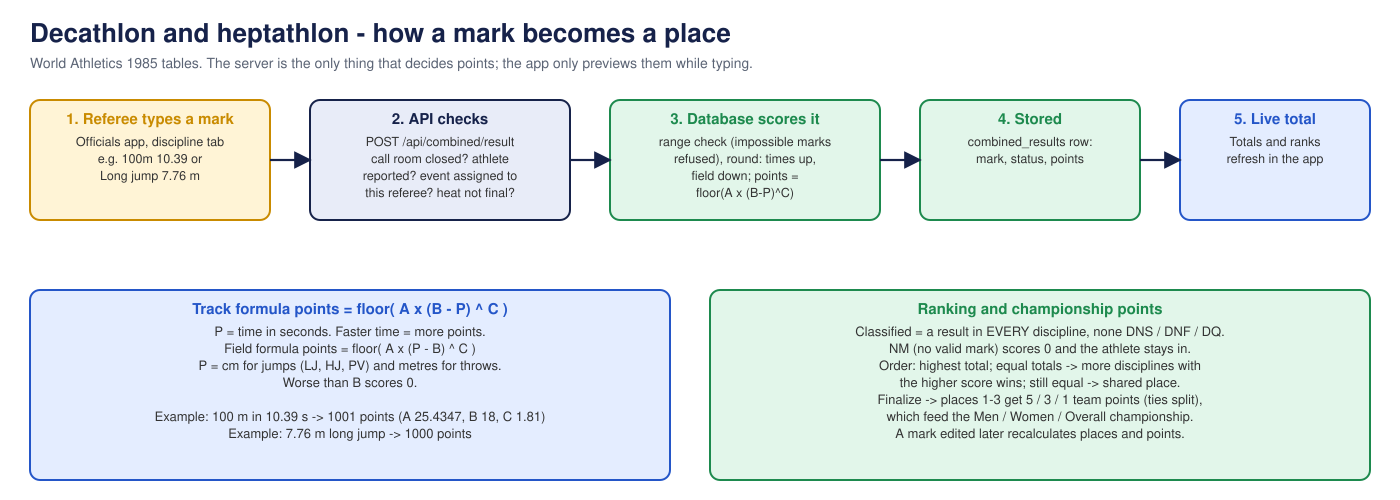
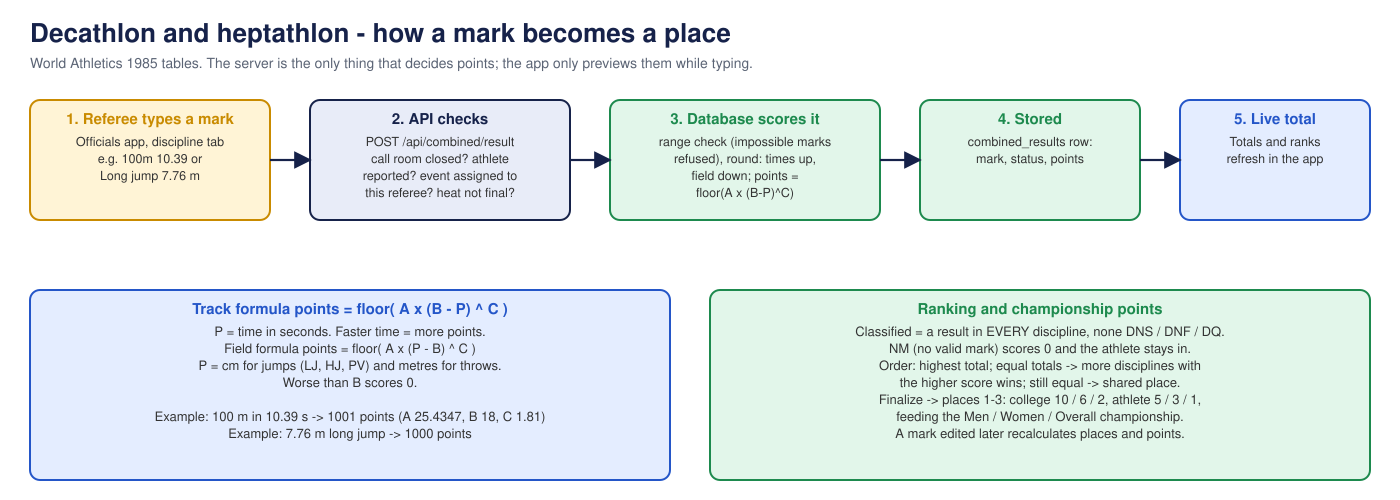
docs: college points are 10/6/2 (athlete 5/3/1), results corrections page; seed keeps combined_disciplines
The staging seed truncated combined_disciplines (decathlon/heptathlon scoring table); it is reference
data now kept like events and meet_settings.

Changed region(s): [[0.6143, 0.78, 0.86, 0.84]]

diff --git a/scripts/staging/seed_demo.py b/scripts/staging/seed_demo.py
@@ -240,7 +240,7 @@ receipt_url = f'{URL}/storage/v1/object/public/payment-proofs/demo/receipt.png'
 # ------------------------------------------------------------------------------------------------
 # Wipe and load
 # ------------------------------------------------------------------------------------------------
-keep = {'events', 'meet_settings'}
+keep = {'events', 'meet_settings', 'combined_disciplines'}  # reference data, not demo data
 tables = [t for t in psql("select tablename from pg_tables where schemaname='public'").split() if t not in keep]
 sql = ['BEGIN;', f'TRUNCATE {", ".join(tables)} RESTART IDENTITY CASCADE;']
 sql.append("""UPDATE meet_settings SET meet_name = 'Dr. ACS-AURA 2026 — 28th VTU State Level Inter-Collegiate Athletic Meet (DEMO)',

diff --git a/HOW-IT-WORKS.md b/HOW-IT-WORKS.md
@@ -184,6 +184,7 @@ Wi-Fi at a stadium can be poor. The app **keeps working**:
 - Type each athlete's mark: **times** like 10.42 or 1:52.34, **distances and heights in metres** like 7.42.
 - The **points** appear straight away (World Athletics scoring), and the standings table below shows the running total and rank for every athlete.
 - Statuses: **FIN** (finished), **NM** (no valid mark, scores 0 and the athlete stays in), **DNF/DQ/DNS** (the athlete is not ranked).
+- **Print / Save PDF** gives the paper sheet: one table per day with each mark and its points, the grand total and the position.
 - Press **Finish event & award points** when every mark is in.
 
 ### Rules referees should know
@@ -210,7 +211,8 @@ Payments page**. The **registration desk** account marks arrivals.
 | **Bibs** | Generate contiguous bib numbers once registration closes (never change afterwards) |
 | **ID cards** | Print athlete accreditation cards (admin-only; colleges do not see them) |
 | **Heats / Schedule** | Draw heats for each event, see the schedule, link each heat to its slot |
-| **Score sheets** | Print blank referee score sheets |
+| **Results & Corrections** | Fix a result after a referee finished the heat: **reopen** the heat for the referee, or correct a track final time or a decathlon / heptathlon mark directly. A reason is required and goes in the Audit Log; places and points recalculate by themselves. |
+| **Score sheets** | Print blank referee score sheets, including decathlon / heptathlon sheets (one page per day) |
 | **Delegations** | Printable delegation sheets with the principal's signature and seal |
 | **Certificates** | Generate the official certificates |
 | **Amendments** | Withdraw or substitute an athlete after the roster is locked |
@@ -246,10 +248,14 @@ Results appear as soon as a referee finalizes a heat.
 
 | What | Points |
 |---|---|
-| 1st, 2nd, 3rd in an individual event | **5, 3, 1** |
-| 1st, 2nd, 3rd in 4x100 m or 4x400 m relay | **10, 6, 2** (Overall championship only) |
-| Mixed relay | no championship points |
-| Tie | the tied athletes share the place and split the points of the places they cover |
+| **College points**: 1st, 2nd, 3rd in **any** event (individual or relay, decathlon and heptathlon included) | **10, 6, 2** |
+| **Athlete's own points**: 1st, 2nd, 3rd in an individual event (used for Best Male / Female Athlete) | **5, 3, 1** |
+| Mixed relay | no points |
+| Tie | the tied athletes share the place |
+
+Which events count where:
+- **Overall championship:** college points from every event, individual and 4x100 m / 4x400 m relays.
+- **Men's / Women's team championship:** college points from that gender's individual events only (no relays).
 
 **Qualifying:** in track events with several heats, the **first 2 of each heat** go to the next round (ties for
 2nd place both go through). If more than 8 qualify for a final, a semi-final is run first.
@@ -287,7 +293,8 @@ Results appear as soon as a referee finalizes a heat.
 an athlete (Amendments) or unlock the squad.
 
 **A referee typed a wrong time.** If the heat is not finalized, retype it (it saves over the old one). If it is
-finalized, ask the meet office to reopen. The change is logged, and points recalculate automatically.
+finalized, the admin opens **Results & Corrections** and either reopens the heat (the referee fixes it and finishes it
+again) or corrects a final time / decathlon mark directly. The change is logged, and points recalculate automatically.
 
 **The tablet lost Wi-Fi.** Keep working. Items show *Queued* and send themselves when the network returns.
 

diff --git a/ARCHITECTURE.md b/ARCHITECTURE.md
@@ -91,8 +91,9 @@ read and write nothing. Only the website's server and the API hold the service k
 | Official | duty + 6-digit PIN | JWT with the role of that duty | throttle, per-role scope |
 
 Referees can carry a **scope** of assigned events. A referee can write results only for those events
-(`assertEventScope`). A heat that is finalized rejects further writes from referees, and only an admin can
-correct it. Every result change is logged in `result_changes`.
+(`assertEventScope`). A heat that is finalized rejects further writes from referees. The admin's **Results & Corrections**
+page (`/admin/results`, `actions/results-admin.ts`) can reopen it (back to `ON_TRACK`; refused when the next round has already
+started) or correct a track final time / decathlon mark directly; a reason is required and goes in `admin_audit_logs`. Every result change is logged in `result_changes`.
 
 ---
 
@@ -169,13 +170,16 @@ Women's squads are summed, either PED can pay, and verification sets the status 
    - marks the heat COMPLETED;
    - when every heat of the round is done, builds the next round (first 2 of each heat qualify, ties for
      second go through, no time qualifiers; a semi-final is added when more than eight qualify; a final never has more than eight);
-   - when the FINAL (or a combined event) is complete, calls `allocate_event_points`;
+   - when the FINAL (or a combined event) is complete, calls `allocate_event_points` (places 1-3);
    - clears the caches and pushes "you are through to the final" notifications to the qualifiers.
 
 ### Points
-- Individual events: 1st/2nd/3rd = **5 / 3 / 1**. Relays (4x100, 4x400): **10 / 6 / 2**, Overall only.
-  The Mixed Relay scores nothing.
-- Ties share a place and split the points of the places covered, e.g. two athletes tied for 2nd get (3+1)/2 = 2 each.
+- **College points: 10 / 6 / 2** for 1st / 2nd / 3rd in any event, individual or relay (migration 0042,
+  view `championship_scored_points`). Overall = every event; Men's / Women's team = that gender's individual events only.
+- **Athlete's own points: 5 / 3 / 1** for individual events (Best Male / Female Athlete). `team_points.points` keeps
+  these; the standings read the view's `college_points` / `athlete_points` columns.
+- The Mixed Relay scores nothing.
+- Ties share a place.
 - A result edited after the points were awarded recalculates them automatically (database triggers).
 
 ### Field and vertical events
